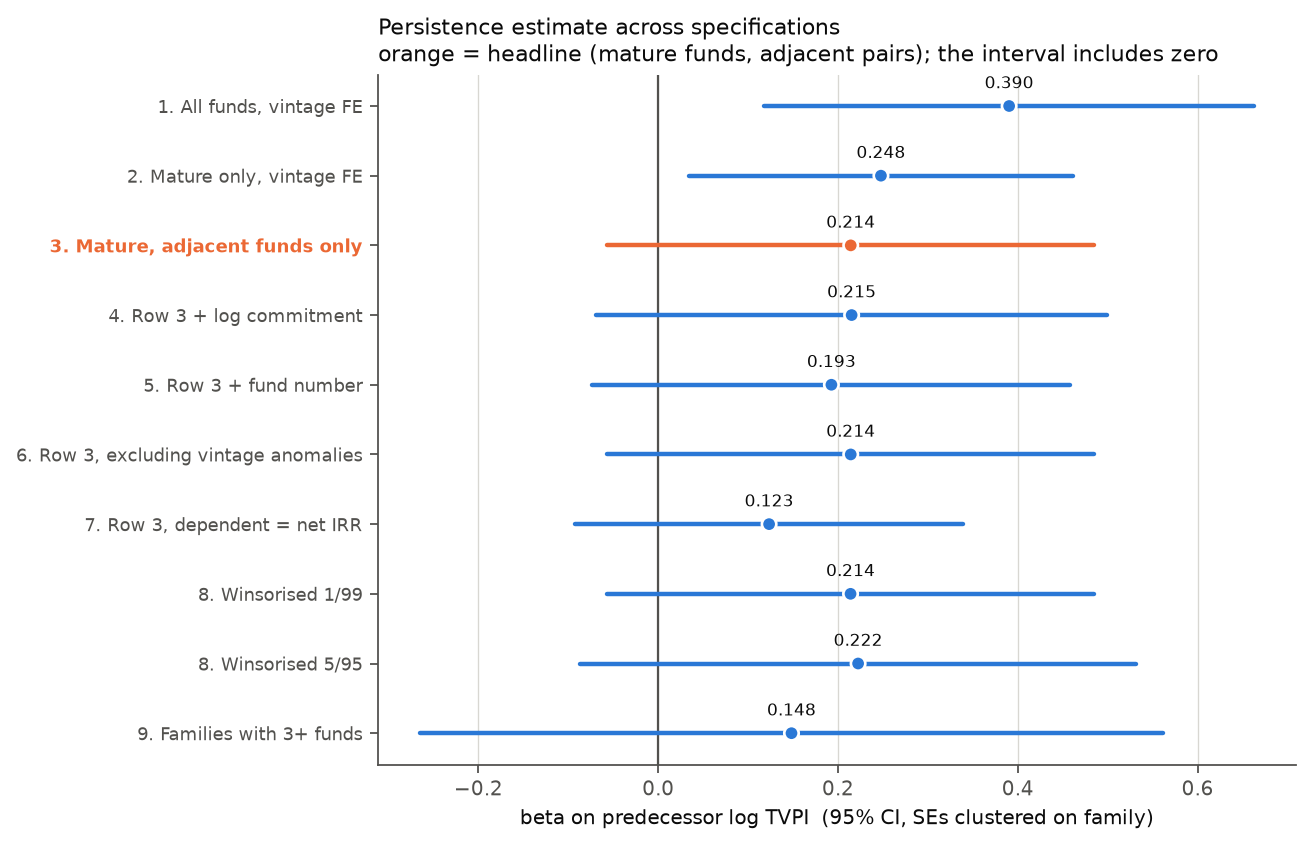
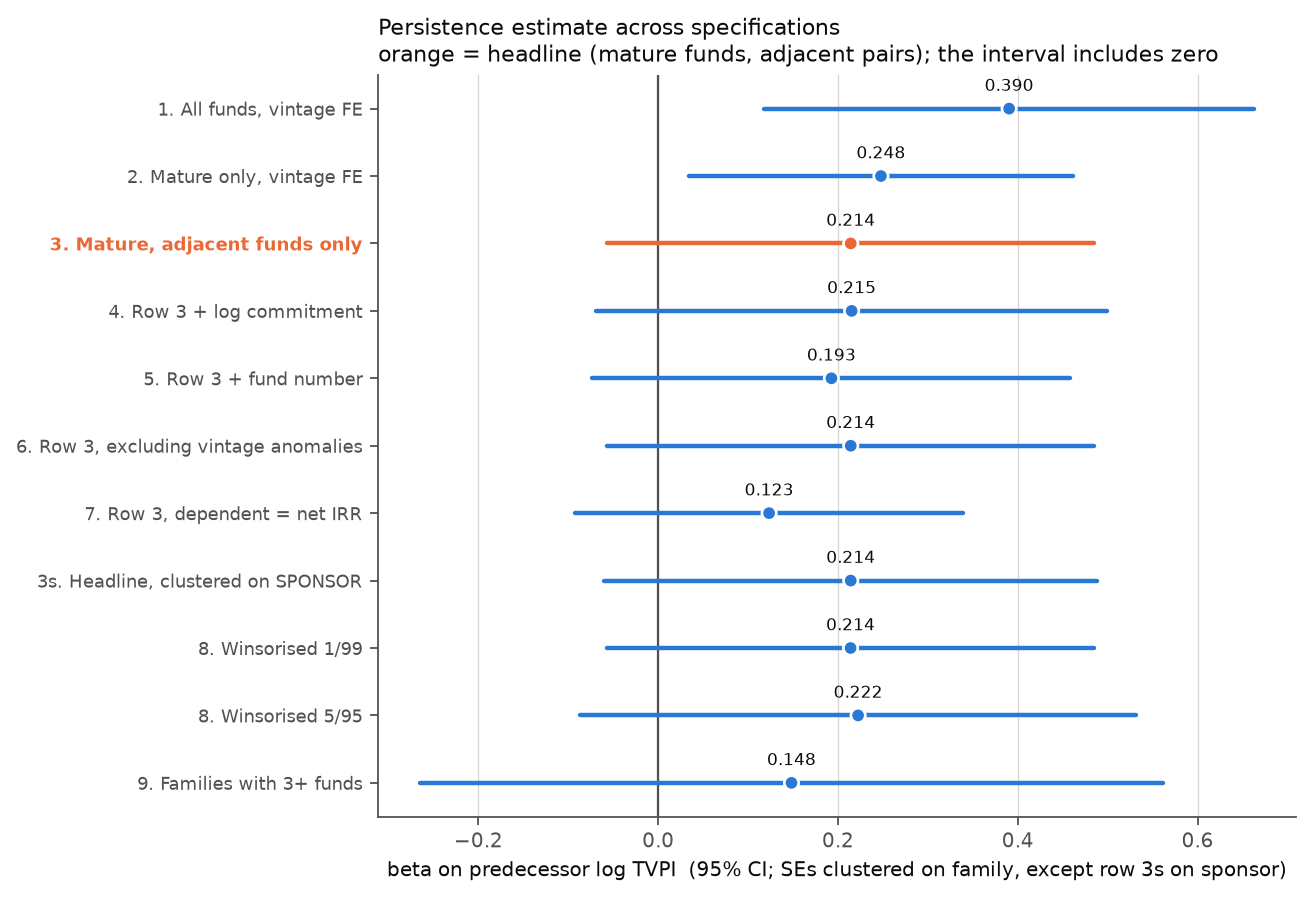
add new scripts to run_all, redo figures

diff --git a/analysis/make_figures.py b/analysis/make_figures.py
@@ -125,7 +125,10 @@ def figure_coefficients() -> None:
             tick.set_color(ORANGE)
             tick.set_fontweight("bold")
 
-    ax.set_xlabel("beta on predecessor log TVPI  (95% CI, SEs clustered on family)")
+    ax.set_xlabel(
+        "beta on predecessor log TVPI  (95% CI; SEs clustered on family, "
+        "except row 3s on sponsor)"
+    )
     ax.set_title(
         "Persistence estimate across specifications\n"
         "orange = headline (mature funds, adjacent pairs); the interval includes zero",
